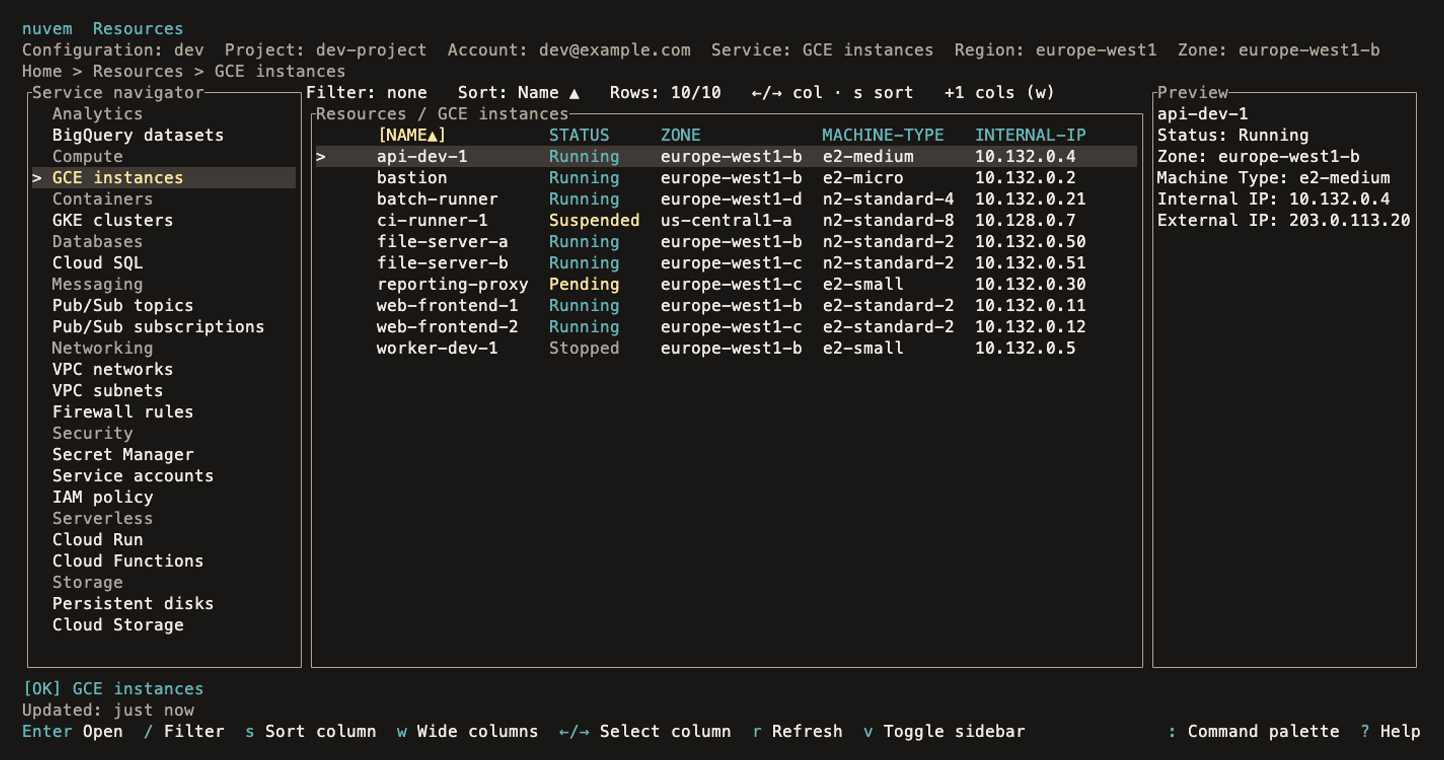
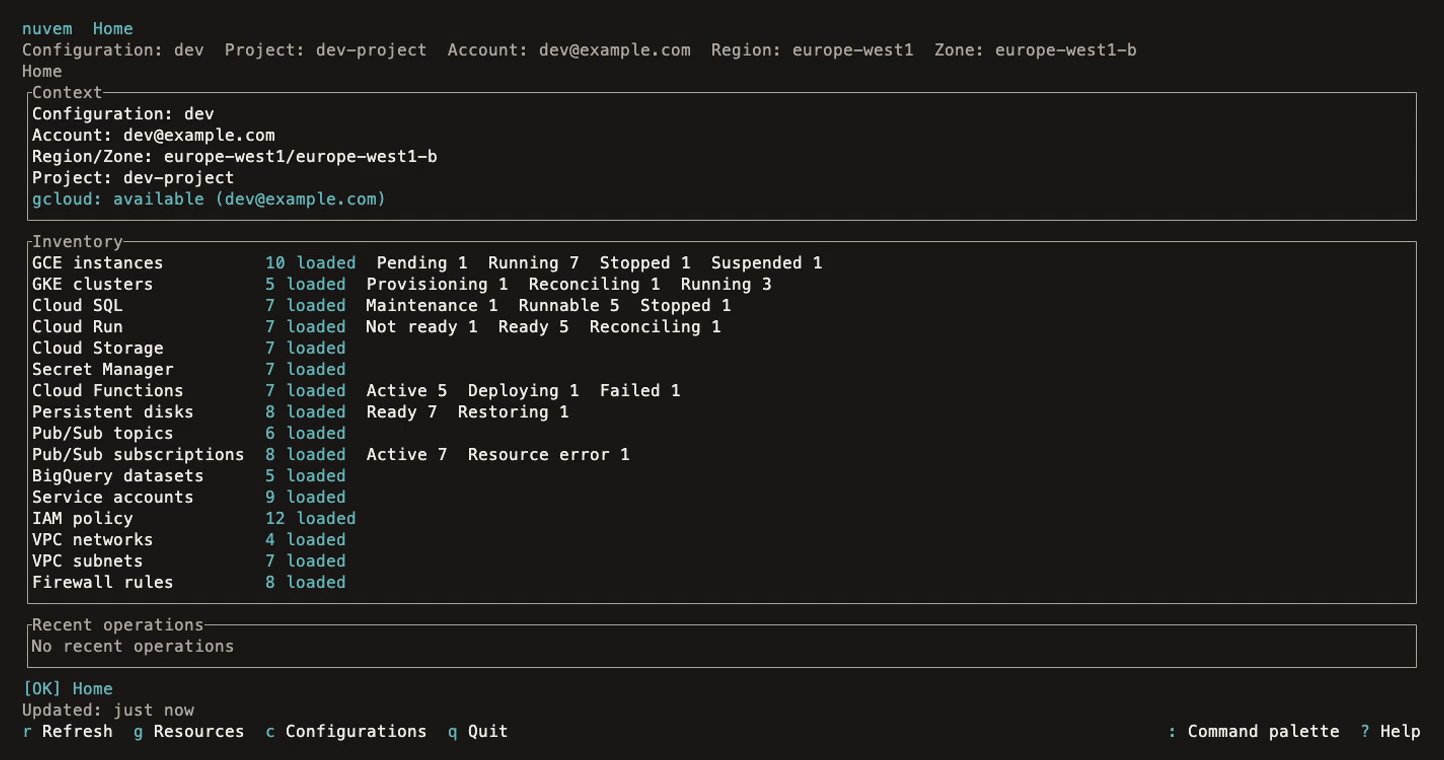
fix(demo): use the recording's first frame as its poster
The poster showed the GCE instances list, but the recording starts on
Home, so the picture jumped when playback began. render-demo.sh now takes
the poster from the MP4's first frame with ffmpeg, and the tape no longer
takes a screenshot. The committed poster is that frame, taken from the
committed MP4, so the recordings themselves are unchanged.

diff --git a/demo/README.md b/demo/README.md
@@ -55,8 +55,9 @@ characters long on the BigQuery screens, and narrower terminals end it with
 some cells with `…`, so the tour does not visit them. 34 rows fit every line
 of Home.
 
-The poster is a screenshot the tape takes on the GCE instances list, not the
-first frame.
+The poster is the video's first frame, Home, which the script takes from the
+MP4 with `ffmpeg`. A reader who starts the video sees the same screen the
+poster showed.
 
 ### Off camera
 
